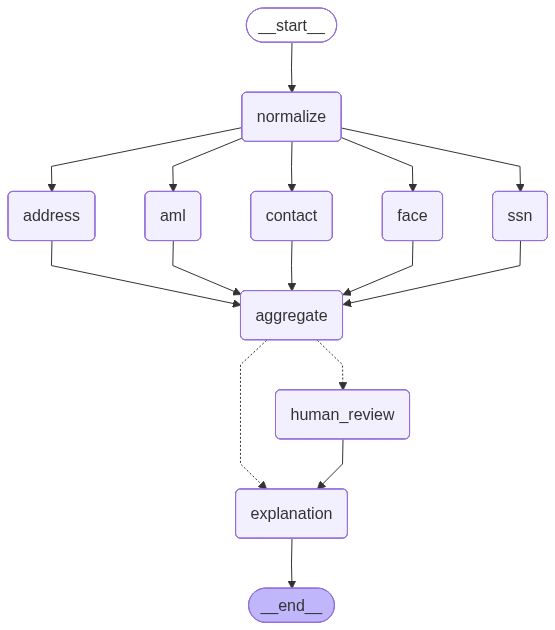
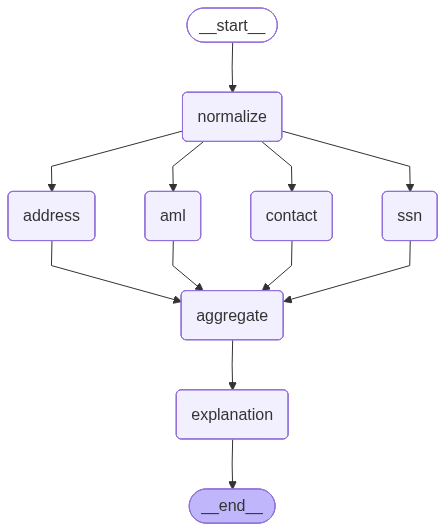
setup graph

diff --git a/agents/kyc_agent/src/workflows/kyc_engine/nodes/risk.py b/agents/kyc_agent/src/workflows/kyc_engine/nodes/risk.py
@@ -3,17 +3,16 @@ Risk Aggregation Engine – Policy-Driven, Auditable Decision Core
 Aligned with KYC Domain Spec (Decision Matrix, Hard Stops, Audit Artifacts)
 """
 
-import time
-from typing import Dict, List
-from src.workflows.kyc_engine.kyc_state import KYCState
-from src.core.telemetry import track_node
-from src.workflows.kyc_engine.rules.loader import load_rule_set
-from src.workflows.kyc_engine.rules.executor import execute_rules
 from datetime import datetime
+
+from src.core.telemetry import track_node
+from src.workflows.kyc_engine.kyc_state import KYCState
+from src.workflows.kyc_engine.rules.executor import execute_rules
+from src.workflows.kyc_engine.rules.loader import load_rule_set
+
 
 @track_node("risk_aggregation_engine")
 def risk_aggregator_node(state: KYCState) -> KYCState:
-
     # ==================================================
     # 1⃣ Load Rule Set (Versioned Policy)
     # ==================================================
@@ -30,16 +29,16 @@ def risk_aggregator_node(state: KYCState) -> KYCState:
     # ==================================================
     ssn = state.get("ssn_validation") or {}
     address = state.get("address_verification") or {}
-    document = state.get("document_check") or {}
-    face = state.get("face_check") or {}
+    # document = state.get("document_check") or {}
+    # face = state.get("face_check") or {}
     aml = state.get("aml_check") or {}
 
     signals = {
         "ssn": ssn,
         "address": address,
-        "document": document,
-        "face": face,
-        "aml": aml
+        # "document": document,
+        # "face": face,
+        "aml": aml,
     }
 
     # ==================================================
@@ -48,8 +47,8 @@ def risk_aggregator_node(state: KYCState) -> KYCState:
     rule_result = execute_rules(rule_set=rule_set, signals=signals)
 
     final_status = rule_result["final_status"]
-    triggered_rules: List[str] = rule_result.get("triggered_rules", [])
-    soft_flags: List[str] = rule_result.get("soft_flags", [])
+    triggered_rules: list[str] = rule_result.get("triggered_rules", [])
+    soft_flags: list[str] = rule_result.get("soft_flags", [])
 
     # Separate hard-fail rules (if FAIL)
     hard_fail_rules = []
@@ -62,9 +61,11 @@ def risk_aggregator_node(state: KYCState) -> KYCState:
     # 4⃣ Weighted Confidence Score (0.0–1.0)
     # ==================================================
     confidence_score = (
-        ssn.get("ssn_score", 1.0) * weights.get("ssn", 0.25) +
-        document.get("document_score", 1.0) * weights.get("document", 0.25) +
-        face.get("face_match_score", 1.0) * weights.get("face", 0.25) +
+        ssn.get("ssn_score", 1.0) * weights.get("ssn", 0.25)
+        + (1 - address.get("risk_score", 0.0)) * weights.get("address", 0.34)
+        +
+        # document.get("document_score", 1.0) * weights.get("document", 0.25) +
+        # face.get("face_match_score", 1.0) * weights.get("face", 0.25) +
         (1 - aml.get("aml_score", 0.0)) * weights.get("aml", 0.25)
     )
 
@@ -73,19 +74,18 @@ def risk_aggregator_node(state: KYCState) -> KYCState:
     # ==================================================
     # 5⃣ Decision Snapshot (Audit Safe)
     # ==================================================
-    decision_snapshot: Dict = {
+    decision_snapshot: dict = {
         "rule_version": rule_version,
         "thresholds": thresholds,
         "signals": signals,
         "triggered_rules": triggered_rules,
         "final_status": final_status,
-        "confidence_score": confidence_score
+        "confidence_score": confidence_score,
     }
-
 
     reasoning_trace = {
         "decision_snapshot": decision_snapshot,
-        "timestamp": datetime.now().strftime("%Y-%m-%d %H:%M:%S")
+        "timestamp": datetime.now().strftime("%Y-%m-%d %H:%M:%S"),
     }
 
     # ==================================================
@@ -104,13 +104,8 @@ def risk_aggregator_node(state: KYCState) -> KYCState:
             "hard_fail_triggered": hard_fail_triggered,
             "soft_signal_count": len(soft_flags),
         },
-        "model_versions": {
-            "aggregator_engine": "v2.0",
-            "rule_version": rule_version
-        },
-        "reasoning_trace": reasoning_trace
+        "model_versions": {"aggregator_engine": "v2.0", "rule_version": rule_version},
+        "reasoning_trace": reasoning_trace,
     }
 
-    return {
-        "risk_decision": risk_decision
-    }
+    return {"risk_decision": risk_decision}

diff --git a/agents/kyc_agent/src/workflows/kyc_engine/nodes/aml.py b/agents/kyc_agent/src/workflows/kyc_engine/nodes/aml.py
@@ -11,11 +11,11 @@ from src.workflows.kyc_engine.kyc_state import AMLCheckState, KYCState
 
 
 @track_node("aml")
-def aml_node(state: KYCState) -> KYCState:
+async def aml_node(state: KYCState) -> KYCState:
     req = state["raw_request"]
 
-    # Re-use the Experian mock adapter with the same style of payload
     adapter = MockExperianAdapter()
+
     experian_data = adapter.get_credit_report(
         {
             "firstName": req["full_name"].split()[0],
@@ -29,17 +29,30 @@ def aml_node(state: KYCState) -> KYCState:
         }
     )
 
-    # ---- Derive AML signals from Experian mock response ----
+    # -------------------------------------------------
+    # Extract Signals From Experian Response
+    # -------------------------------------------------
+    experian_data = await experian_data
     fraud_shield = experian_data.fraudShield[0]
     fraud_code = fraud_shield.fraudShieldIndicators.indicator[0]
-    score_raw = float(experian_data.riskModel[0].score)
-    has_public_record = len(experian_data.publicRecord) > 0
+
+    credit_score = float(experian_data.riskModel[0].score)
+    public_records = experian_data.publicRecord
+    has_public_record = len(public_records) > 0
+
+    deceased_flag = bool(fraud_shield.dateOfDeath)
 
     flags: dict[str, str] = {}
 
-    # Map Experian fraud codes into AML semantics
-    # 00 → clean, 01 → low score / bankruptcy, 08 → synthetic,
-    # 09 → deceased, 12 → known fraud hit (treat as OFAC-like).
+    # -------------------------------------------------
+    # Fraud Code Mapping
+    # -------------------------------------------------
+    # 00 → clean
+    # 01 → bankruptcy / low score
+    # 08 → synthetic
+    # 09 → deceased
+    # 12 → known fraud hit (OFAC-like)
+
     ofac_match = fraud_code == "12"
     pep_match = fraud_code in {"01", "08", "09"}
 
@@ -47,23 +60,42 @@ def aml_node(state: KYCState) -> KYCState:
         flags["EXPERIAN_FRAUD_CODE"] = fraud_code
 
     if has_public_record:
-        # In the mock, publicRecord is used for bankruptcy scenarios.
         flags["PUBLIC_RECORD_PRESENT"] = "True"
 
-    # Convert credit score to a 0–1 AML risk score (higher = more risk).
-    # Baseline from credit score, then bump for fraud / public record.
-    base_risk = max(0.0, min(1.0, 1.0 - score_raw / 1000.0))
+    if deceased_flag:
+        flags["DECEASED_SSN_FLAG"] = "True"
+
+    # -------------------------------------------------
+    # AML Risk Score Calculation (0.0 – 1.0)
+    # -------------------------------------------------
+
+    # Baseline risk derived from credit score
+    base_risk = 1.0 - (credit_score / 1000.0)
+
+    # Fraud penalty
     if fraud_code != "00":
-        base_risk = min(1.0, base_risk + 0.2)
+        base_risk += 0.20
+
+    # Public record penalty
     if has_public_record:
-        base_risk = min(1.0, base_risk + 0.1)
+        base_risk += 0.10
+
+    # Deceased penalty
+    if deceased_flag:
+        base_risk += 0.20
+
+    # OFAC hard bump
+    if ofac_match:
+        base_risk = 1.0
+
+    aml_score = round(max(0.0, min(1.0, base_risk)), 4)
 
     aml_state: AMLCheckState = {
         "ofac_match": ofac_match,
-        "ofac_confidence": 0.95 if ofac_match else 0.3,
+        "ofac_confidence": 0.99 if ofac_match else 0.30,
         "pep_match": pep_match,
         "sanctions_list_version": "EXPERIAN-MOCK-2026-01",
-        "aml_score": round(base_risk, 4),
+        "aml_score": aml_score,
         "flags": flags,
     }
 

diff --git a/agents/kyc_agent/src/workflows/decision_flow.py b/agents/kyc_agent/src/workflows/decision_flow.py
@@ -12,8 +12,6 @@ from src.workflows.kyc_engine.nodes.aml import aml_node
 # --- Import Nodes ---
 from src.workflows.kyc_engine.nodes.contact import contact_node
 from src.workflows.kyc_engine.nodes.explanation import explanation_node
-from src.workflows.kyc_engine.nodes.face import face_node
-from src.workflows.kyc_engine.nodes.human_review import human_review_node
 from src.workflows.kyc_engine.nodes.normalize import normalize_node
 from src.workflows.kyc_engine.nodes.risk import risk_aggregator_node
 from src.workflows.kyc_engine.nodes.ssn import ssn_node
@@ -32,12 +30,12 @@ def build_graph():
 
     graph.add_node("ssn", ssn_node)
     graph.add_node("address", address_node)
-    graph.add_node("face", face_node)
+    # graph.add_node("face", face_node)
     graph.add_node("aml", aml_node)
     graph.add_node("contact", contact_node)
 
     graph.add_node("aggregate", risk_aggregator_node)
-    graph.add_node("human_review", human_review_node)
+    # graph.add_node("human_review", human_review_node)
     graph.add_node("explanation", explanation_node)
 
     # -----------------------
@@ -52,7 +50,7 @@ def build_graph():
 
     graph.add_edge("normalize", "ssn")
     graph.add_edge("normalize", "address")
-    graph.add_edge("normalize", "face")
+    # graph.add_edge("normalize", "face")
     graph.add_edge("normalize", "aml")
     graph.add_edge("normalize", "contact")
 
@@ -62,7 +60,7 @@ def build_graph():
 
     graph.add_edge("ssn", "aggregate")
     graph.add_edge("address", "aggregate")
-    graph.add_edge("face", "aggregate")
+    # graph.add_edge("face", "aggregate")
     graph.add_edge("aml", "aggregate")
     graph.add_edge("contact", "aggregate")
 
@@ -70,35 +68,37 @@ def build_graph():
     # Conditional Routing
     # -----------------------
 
-    def route_after_aggregation(state: KYCState):
-        decision = state.get("risk_decision", {}).get("final_status")
+    # def route_after_aggregation(state: KYCState):
+    #     decision = state.get("risk_decision", {}).get("final_status")
 
-        if decision == "NEEDS_HUMAN_REVIEW":
-            return "human_review"
-        else:
-            return "explanation"
+    #     if decision == "NEEDS_HUMAN_REVIEW":
+    #         return "human_review"
+    #     else:
+    #         return "explanation"
 
-    graph.add_conditional_edges(
-        "aggregate",
-        route_after_aggregation,
-        {
-            "human_review": "human_review",
-            "explanation": "explanation",
-        },
-    )
+    # graph.add_conditional_edges(
+    #     "aggregate",
+    #     route_after_aggregation,
+    #     {
+    #         "human_review": "human_review",
+    #         "explanation": "explanation",
+    #     },
+    # )
 
     # After human review → explanation
-    graph.add_edge("human_review", "explanation")
+    graph.add_edge("aggregate", "explanation")
 
     # Final node
     graph.add_edge("explanation", END)
 
     # workflow = graph.compile()
-    
+
     # with open("graph.png", "wb") as f:
     #     f.write(workflow.get_graph().draw_mermaid_png())
-    
+
     return graph.compile()
+
+    # return workflow
 
 
 # workflow = build_graph()
